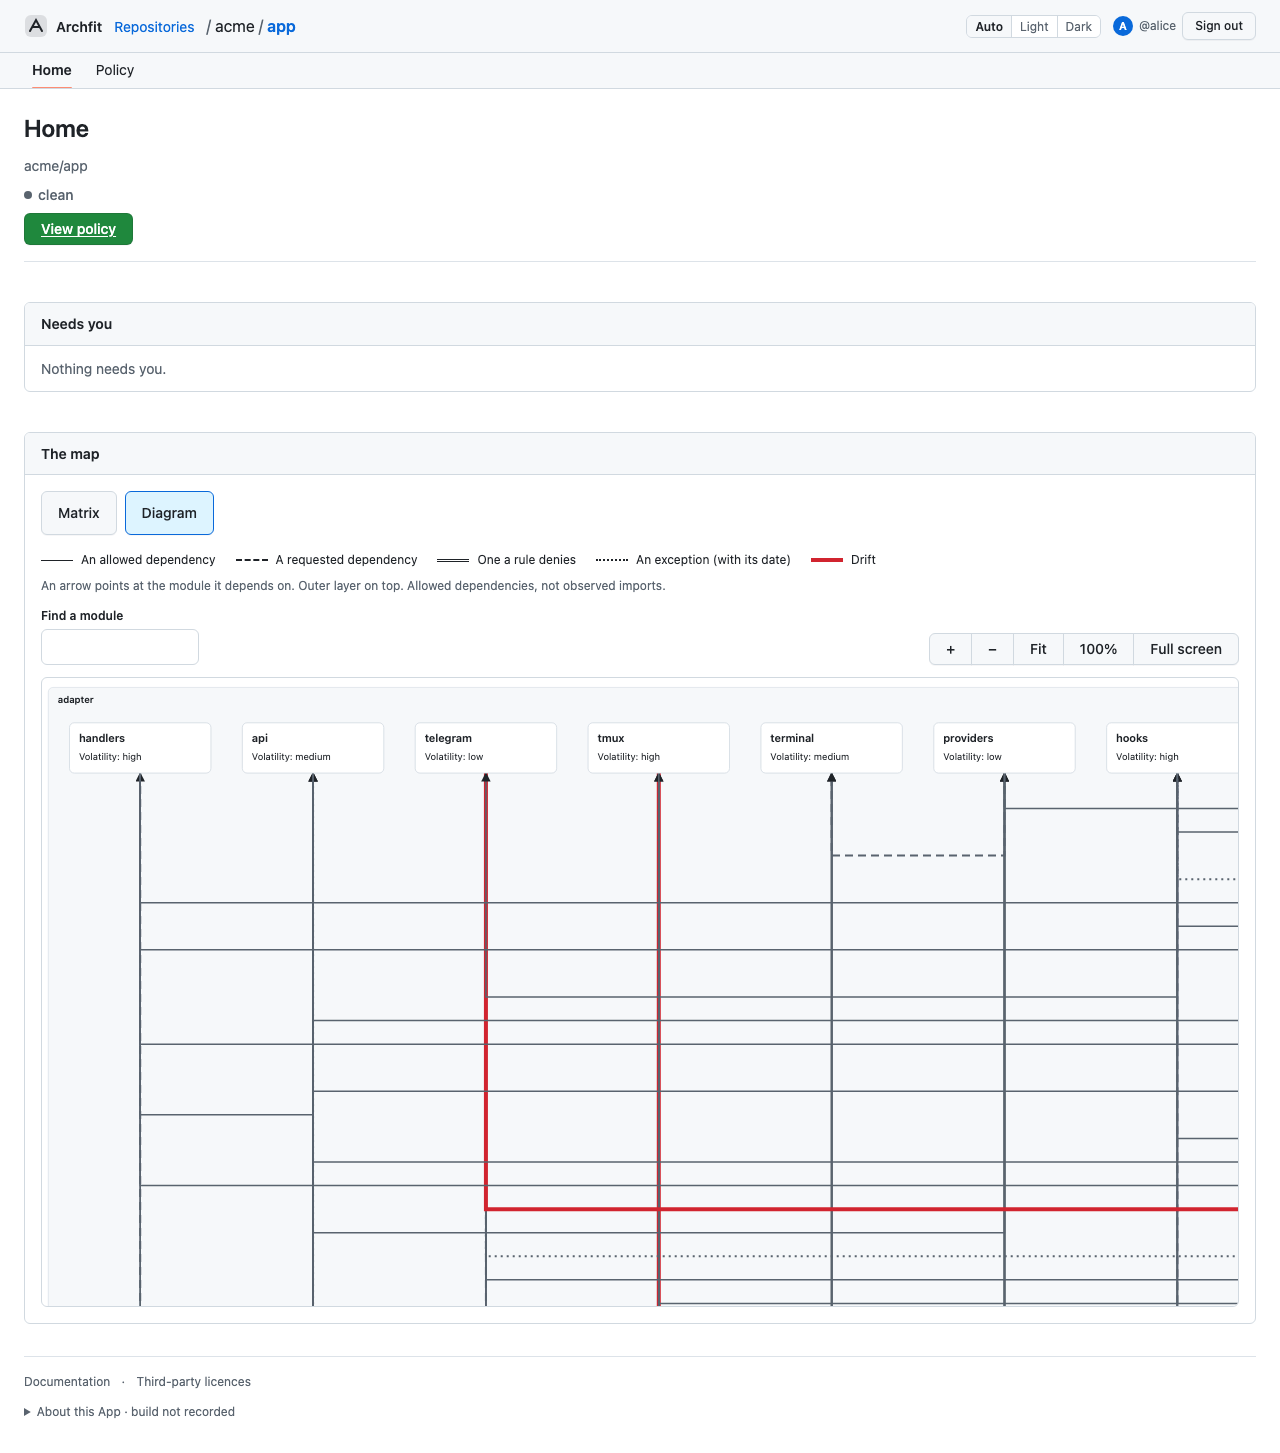
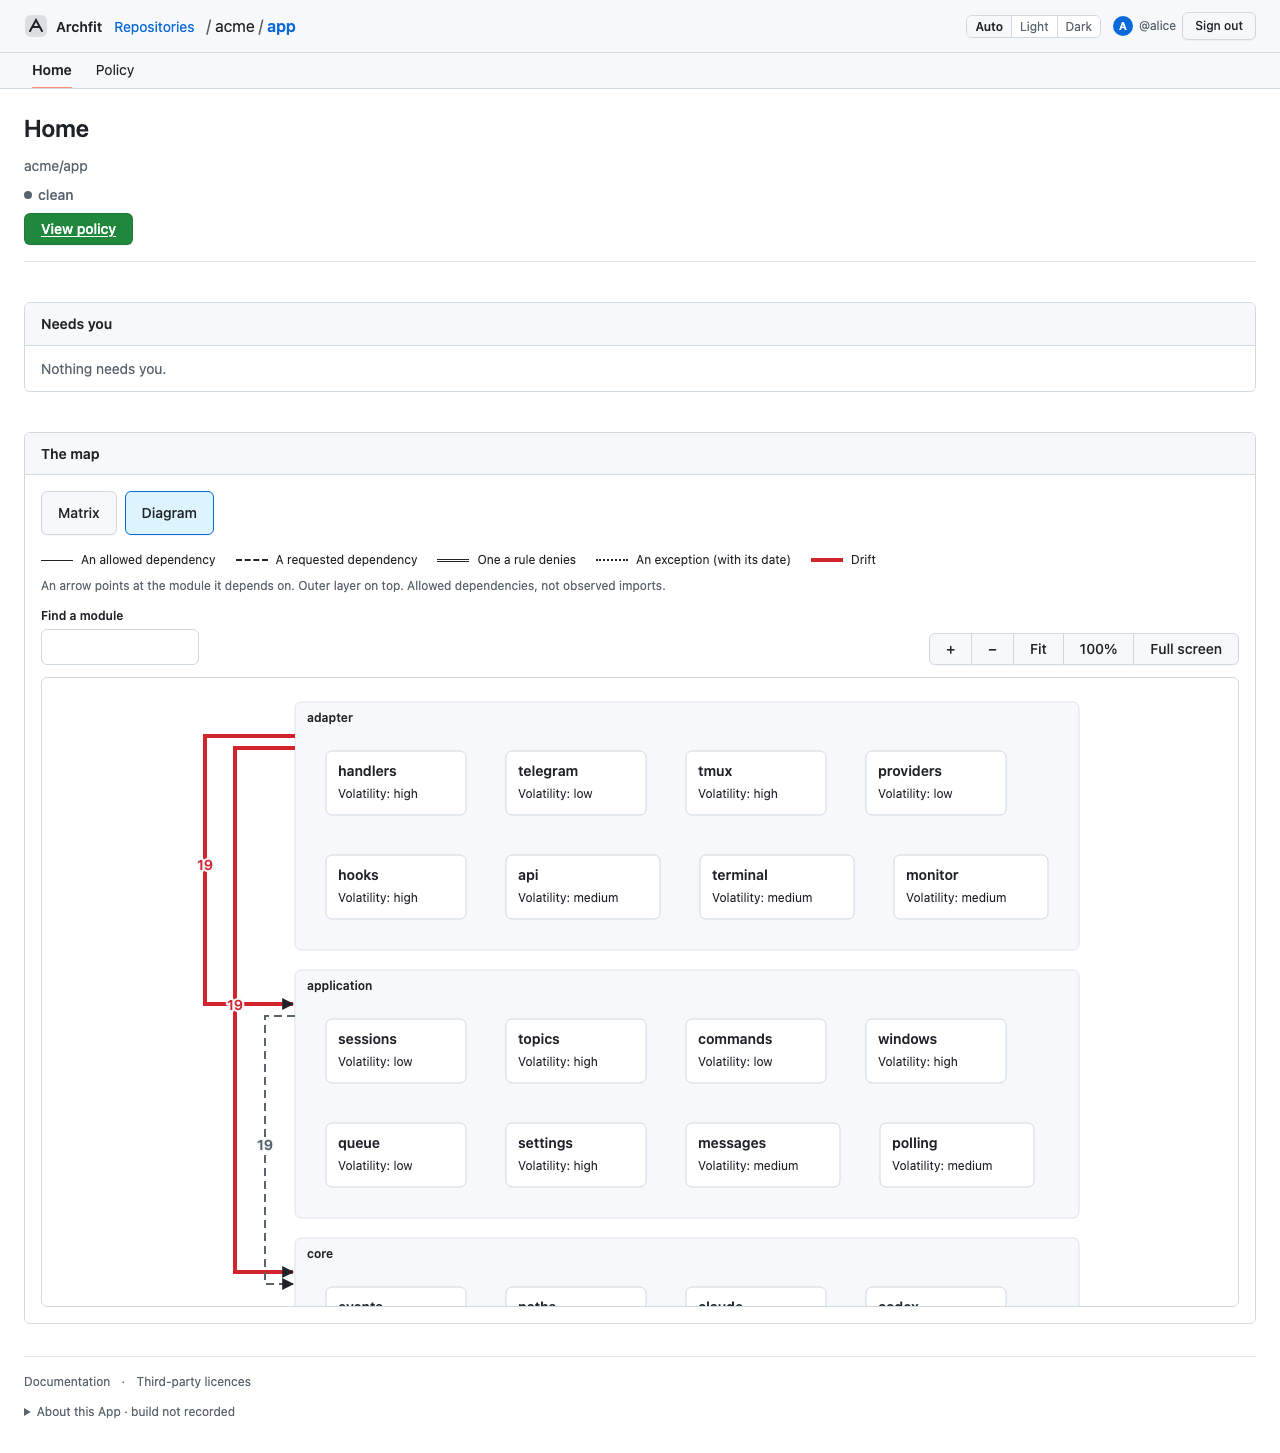
fix(web): keep focused-line labels off band names and counts, and inside the chart

diff --git a/web/src/components/map/routes.test.ts b/web/src/components/map/routes.test.ts
@@ -1,32 +1,35 @@
 import { describe, expect, it } from 'vitest';
 import type { MapNode } from './layout';
 import type { MapLine } from './model';
+import { focusLabel } from './model';
 import { routeLines } from './routes';
+const focusLabelLength = (l: MapLine) => focusLabel(l).length;
 
 const node = (name: string, x: number, y: number): MapNode => ({ name, layer: '', volatility: 'low', x, y, width: 200, height: 64 });
 const nodes = [node('api', 100, 100), node('db', 100, 400), node('ui', 400, 100), node('cache', 700, 100)];
 const line = (from: string, to: string): MapLine => ({ kind: 'allowed', from, to });
+const area = { width: 1000, height: 700, avoid: [] };
 
 describe('routeLines', () => {
   it('draws only the lines of the module in focus', () => {
-    const routes = routeLines(nodes, [line('api', 'db'), line('ui', 'cache'), line('ui', 'api')], 'api');
+    const routes = routeLines(nodes, [line('api', 'db'), line('ui', 'cache'), line('ui', 'api')], 'api', area);
     expect(routes.map((r) => `${r.line.from}>${r.line.to}`)).toEqual(['api>db', 'ui>api']);
   });
 
   it('leaves the lower side of a module toward one below and enters the upper side of that one', () => {
-    const [route] = routeLines(nodes, [line('api', 'db')], 'api');
+    const [route] = routeLines(nodes, [line('api', 'db')], 'api', area);
     expect(route.path.startsWith('M 200 164 ')).toBe(true);
     expect(route.path.endsWith(' 200 400')).toBe(true);
   });
 
   it('arches over a row for two modules side by side', () => {
-    const [route] = routeLines(nodes, [line('api', 'ui')], 'api');
+    const [route] = routeLines(nodes, [line('api', 'ui')], 'api', area);
     expect(route.path.startsWith('M 200 100 ')).toBe(true);
     expect(route.labelY).toBeLessThan(100);
   });
 
   it('spreads lines that share a side of a module and orders them by the other end', () => {
-    const routes = routeLines(nodes, [line('ui', 'api'), line('cache', 'api')], 'api');
+    const routes = routeLines(nodes, [line('ui', 'api'), line('cache', 'api')], 'api', area);
     const starts = routes.map((r) => Number(r.path.split(' ').at(-2)));
     const xs = routes.map((r) => Number(/ (\d+(?:\.\d+)?) \d+$/.exec(r.path)![1]));
     expect(new Set(xs).size).toBe(2);
@@ -35,16 +38,49 @@ describe('routeLines', () => {
   });
 
   it('has no NaN, even for a line from a module to itself or to a missing one', () => {
-    const routes = routeLines(nodes, [line('api', 'api'), line('api', 'missing')], 'api');
+    const routes = routeLines(nodes, [line('api', 'api'), line('api', 'missing')], 'api', area);
     expect(routes).toHaveLength(1);
     expect(routes[0].path).not.toMatch(/NaN|undefined/);
   });
 });
 
+const hits = (a: { x0: number; x1: number; y0: number; y1: number }, b: typeof a) =>
+  a.x0 < b.x1 && b.x0 < a.x1 && a.y0 < b.y1 && b.y0 < a.y1;
+
 describe('route labels', () => {
+  it('keep off text the chart always draws, however many there are', () => {
+    const hub = node('hub', 100, 300);
+    const others = Array.from({ length: 20 }, (_, i) => node('m' + i, 20 + (i % 5) * 190, 500 + Math.floor(i / 5) * 5));
+    const avoid = [{ x: 60, y: 330, width: 80, height: 18 }];
+    const routes = routeLines([hub, ...others], others.map((n) => line('hub', n.name)), 'hub', { ...area, avoid });
+    const boxes = routes.map((r) => {
+      const half = (`hub → ${r.line.to} · allowed`.length * 7.6) / 2;
+      return { x0: r.labelX - half, x1: r.labelX + half, y0: r.labelY - 18, y1: r.labelY };
+    });
+    expect(boxes).toHaveLength(20);
+    for (const [i, a] of boxes.entries()) {
+      expect(hits(a, { x0: 60, x1: 140, y0: 330, y1: 348 })).toBe(false);
+      for (const b of boxes.slice(i + 1)) expect(hits(a, b)).toBe(false);
+    }
+  });
+
+  it('stay inside the chart, arches included', () => {
+    const edge = [node('left', 0, 46), node('right', 800, 46)];
+    const routes = routeLines(edge, [line('left', 'right'), line('left', 'left'), line('right', 'right')], 'left', area);
+    for (const r of routes) {
+      const half = (focusLabelLength(r.line) * 7.6) / 2;
+      expect(r.labelX - half).toBeGreaterThanOrEqual(0);
+      expect(r.labelX + half).toBeLessThanOrEqual(area.width);
+      expect(r.labelY - 18).toBeGreaterThanOrEqual(0);
+    }
+    const arch = routes.find((r) => r.line.to === 'right')!;
+    const peak = Number(arch.path.split(',')[0].split(' ').at(-1));
+    expect(peak).toBeGreaterThanOrEqual(46 - 60);
+  });
+
   it('do not cover one another', () => {
     const many = [node('hub', 100, 100), ...Array.from({ length: 6 }, (_, i) => node('m' + i, 100 + i * 12, 400))];
-    const routes = routeLines(many, many.slice(1).map((n) => line('hub', n.name)), 'hub');
+    const routes = routeLines(many, many.slice(1).map((n) => line('hub', n.name)), 'hub', area);
     const boxes = routes.map((r) => {
       const half = (`hub → ${r.line.to} · allowed`.length * 7.6) / 2;
       return { x0: r.labelX - half, x1: r.labelX + half, y0: r.labelY - 18, y1: r.labelY };

diff --git a/web/src/components/map/routes.ts b/web/src/components/map/routes.ts
@@ -1,5 +1,6 @@
 import type { MapNode } from './layout';
 import { focusLabel, type MapLine } from './model';
+import type { Box } from './viewport';
 
 export interface Route {
   line: MapLine;
@@ -25,7 +26,14 @@ const LINE = 18;
 // Lines of the module in focus only. A line leaves the near side of its module toward the other one and arrives at the
 // near side of that one; where several share a side they spread along it, ordered by where the other end is, so they
 // do not cross at the module. Same-row lines arch over the row.
-export function routeLines(nodes: MapNode[], lines: MapLine[], focused: string): Route[] {
+export interface Area {
+  width: number;
+  height: number;
+  // Other text on the chart that a label must not cover.
+  avoid: Box[];
+}
+
+export function routeLines(nodes: MapNode[], lines: MapLine[], focused: string, area: Area): Route[] {
   const byName = new Map(nodes.map((n) => [n.name, n]));
   const mine = lines.filter((l) => l.from === focused || l.to === focused);
   const sides = (from: MapNode, to: MapNode): [Side, Side] =>
@@ -49,19 +57,22 @@ export function routeLines(nodes: MapNode[], lines: MapLine[], focused: string):
     };
   };
   // Labels keep off every module and off the labels placed before them.
-  const taken = nodes.map((n) => ({ x0: n.x, x1: n.x + n.width, y0: n.y, y1: n.y + n.height }));
+  const taken = [...nodes, ...area.avoid].map((n) => ({ x0: n.x, x1: n.x + n.width, y0: n.y, y1: n.y + n.height }));
   // Move a label down, then up, in steps until it is clear.
-  const clear = (x: number, y: number, text: string) => {
+  // Labels stay inside the chart; the search is wide enough that it ends well before running out for any real module.
+  const clear = (wanted: number, y: number, text: string): [number, number] => {
     const half = (text.length * CHAR) / 2;
-    for (let n = 0; n < 24; n++) {
+    const x = Math.min(Math.max(wanted, half + 4), Math.max(half + 4, area.width - half - 4));
+    for (let n = 0; n < 200; n++) {
       const dy = (n % 2 ? 1 : -1) * Math.ceil(n / 2) * LINE;
-      const box = { x0: x - half, x1: x + half, y0: y + dy - LINE, y1: y + dy };
+      const at = Math.min(Math.max(y + dy, LINE + 2), area.height - 4);
+      const box = { x0: x - half, x1: x + half, y0: at - LINE, y1: at };
       if (!taken.some((t) => box.x0 < t.x1 && t.x0 < box.x1 && box.y0 < t.y1 && t.y0 < box.y1)) {
         taken.push(box);
-        return y + dy;
+        return [x, at];
       }
     }
-    return y;
+    return [x, y];
   };
   return mine.flatMap((line): Route[] => {
     const from = byName.get(line.from);
@@ -72,28 +83,29 @@ export function routeLines(nodes: MapNode[], lines: MapLine[], focused: string):
     if (from === to) {
       const x = from.x + from.width;
       const text = focusLabel(line);
-      const labelX = x + 12 + (text.length * CHAR) / 2;
+      const [labelX, labelY] = clear(x + 12 + (text.length * CHAR) / 2, from.y + 36, text);
       return [{
         line,
         path: `M ${x} ${from.y + 20} C ${x + 50} ${from.y + 20}, ${x + 50} ${from.y + 44}, ${x} ${from.y + 44}`,
         labelX,
-        labelY: clear(labelX, from.y + 36, text),
+        labelY,
       }];
     }
     const sameRow = from.y === to.y;
-    const reach = sameRow ? 50 + Math.abs(b.x - a.x) / 4 : Math.max(40, Math.abs(b.y - a.y) / 2);
+    // An arch stays under 60 px, so it never leaves the top of the chart.
+    const reach = sameRow ? 40 + Math.min(20, Math.abs(b.x - a.x) / 20) : Math.max(40, Math.abs(b.y - a.y) / 2);
     const out = a.y === from.y ? -reach : reach;
     const into = b.y === to.y ? -reach : reach;
     // Near the arrowhead the lines of one module are furthest apart, so a label there is the easiest to read.
     const t = 0.8;
     const at = (p0: number, p1: number, p2: number, p3: number) =>
       (1 - t) ** 3 * p0 + 3 * (1 - t) ** 2 * t * p1 + 3 * (1 - t) * t ** 2 * p2 + t ** 3 * p3;
-    const labelX = at(a.x, a.x, b.x, b.x);
+    const [labelX, labelY] = clear(at(a.x, a.x, b.x, b.x), at(a.y, a.y + out, b.y + into, b.y), focusLabel(line));
     return [{
       line,
       path: `M ${a.x} ${a.y} C ${a.x} ${a.y + out}, ${b.x} ${b.y + into}, ${b.x} ${b.y}`,
       labelX,
-      labelY: clear(labelX, at(a.y, a.y + out, b.y + into, b.y), focusLabel(line)),
+      labelY,
     }];
   });
 }

diff --git a/web/src/components/map/layout.ts b/web/src/components/map/layout.ts
@@ -1,5 +1,6 @@
 import ELK, { type ElkNode } from 'elkjs/lib/elk-api.js';
 import { lineKinds, mapLayers, mapLines, type LineKind, type MapModel, type MapModule } from './model';
+import type { Box } from './viewport';
 
 export interface MapNode extends MapModule {
   x: number;
@@ -30,6 +31,8 @@ export interface MapLayout {
   nodes: MapNode[];
   bands: MapBand[];
   links: MapLink[];
+  // Text the chart always draws (band names, link counts): the labels of a focused module keep off it.
+  avoid: Box[];
 }
 
 type Layout = (graph: ElkNode) => Promise<ElkNode>;
@@ -83,7 +86,7 @@ export async function placeBands(model: MapModel, layout: Layout): Promise<MapLa
 
   const nodes: MapNode[] = [];
   const bands: MapBand[] = [];
-  let y = 12;
+  let y = 24;
   let width = 0;
   for (const name of layers) {
     const modules = model.modules.filter((m) => m.layer === name);
@@ -120,7 +123,11 @@ export async function placeBands(model: MapModel, layout: Layout): Promise<MapLa
       labelY: (ya + yb) / 2,
     };
   });
-  return { left: gutter, width: Math.max(360, gutter + width + 8), height: Math.max(100, y), nodes, bands, links };
+  const avoid: Box[] = [
+    ...bands.map((b) => ({ x: gutter + 12, y: b.y + 6, width: (b.name || 'No layer').length * 7 + 8, height: 18 })),
+    ...links.map((l) => ({ x: l.labelX - 12, y: l.labelY - 14, width: 24, height: 18 })),
+  ];
+  return { left: gutter, width: Math.max(360, gutter + width + 8), height: Math.max(100, y), nodes, bands, links, avoid };
 }
 
 // One worker per mounted map; abort/unmount terminates it. Worker errors reject, never leave an empty picture.

diff --git a/web/src/components/map/Diagram.svelte b/web/src/components/map/Diagram.svelte
@@ -32,7 +32,7 @@
     focused ? [focused, ...lines.filter(touches).flatMap((line) => [line.from, line.to])] : [],
   );
   // Only the lines of the module in focus are drawn; every other dependency is in the line between its two layers.
-  const routes = $derived(placed && focused ? routeLines(placed.nodes, lines, focused) : []);
+  const routes = $derived(placed && focused ? routeLines(placed.nodes, lines, focused, placed) : []);
   const count = (pick: (line: { from: string; to: string }) => string, name: string) =>
     lines.filter((line) => pick(line) === name).length;
   const layerName = (name: string) => name || 'No layer';
